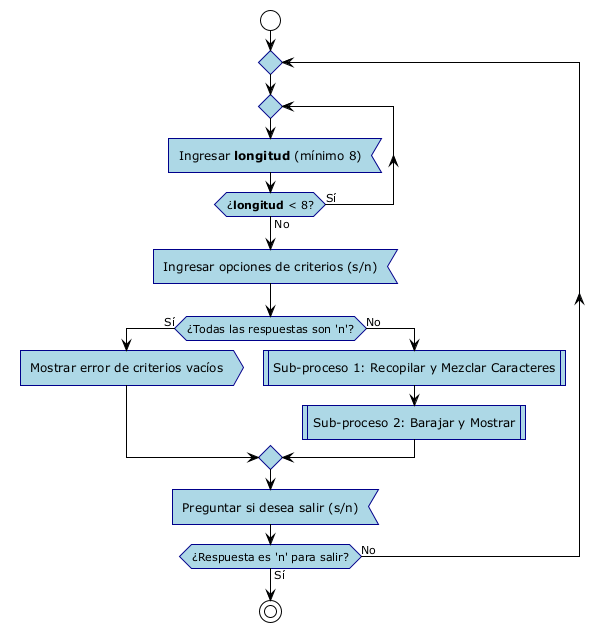
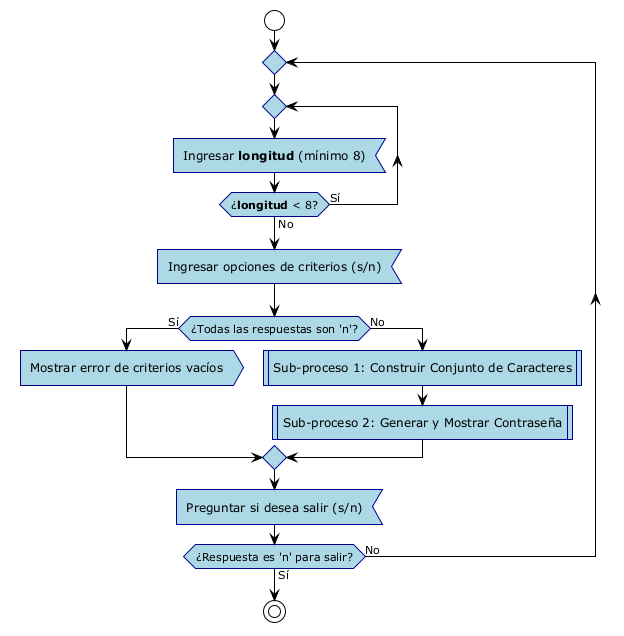
refactor: finalize v1 prototype logic and align flowcharts accordingly

Changed region(s): [[0.0312, 0.0, 0.9688, 0.9858]]

diff --git a/generador_password_v1.py b/generador_password_v1.py
@@ -1,0 +1,98 @@
+import string
+import random
+
+while True:
+    print("\n" + "=" * 45)
+    print("        GENERADOR DE CONTRASEÑAS V1")
+    print("=" * 45)
+
+    # 1. Validación estricta de longitud
+    while True:
+        try:
+            longitud_str = input("Ingresa la longitud deseada (mínimo 8): ")
+            longitud = int(longitud_str)
+            if longitud >= 8:
+                break
+            else:
+                print(
+                    "[!] Advertencia: Por favor, ingresa un número igual o mayor a 8 para mayor seguridad."
+                )
+        except ValueError:
+            print(
+                "[!] Error: Entrada inválida. Debes ingresar únicamente un número entero."
+            )
+
+    # 2. Selección de criterios de complejidad
+    print("\nResponde con 's' (sí) o 'n' (no) a los siguientes criterios:")
+
+    while True:
+        respuesta_mayus = input("- ¿Incluir letras mayúsculas? (s/n): ").strip().lower()
+        if respuesta_mayus in ["s", "n"]:
+            break
+        print("    -> Opción no válida. Usa 's' o 'n'.")
+
+    while True:
+        respuesta_minus = input("- ¿Incluir letras minúsculas? (s/n): ").strip().lower()
+        if respuesta_minus in ["s", "n"]:
+            break
+        print("    -> Opción no válida. Usa 's' o 'n'.")
+
+    while True:
+        respuesta_num = input("- ¿Incluir números? (s/n): ").strip().lower()
+        if respuesta_num in ["s", "n"]:
+            break
+        print("    -> Opción no válida. Usa 's' o 'n'.")
+
+    while True:
+        respuesta_sim = (
+            input("- ¿Incluir caracteres especiales? (s/n): ").strip().lower()
+        )
+        if respuesta_sim in ["s", "n"]:
+            break
+        print("    -> Opción no válida. Usa 's' o 'n'.")
+
+    # 3. Validación de selección mínima
+    if (
+        respuesta_mayus == "n"
+        and respuesta_minus == "n"
+        and respuesta_num == "n"
+        and respuesta_sim == "n"
+    ):
+        print(
+            "\n[!] Error: No se puede generar una contraseña vacía. Debes seleccionar al menos un criterio."
+        )
+        continue
+
+    # 4. Construcción del conjunto total de caracteres permitidos
+    conjunto_total = ""
+
+    if respuesta_mayus == "s":
+        conjunto_total += string.ascii_uppercase
+    if respuesta_minus == "s":
+        conjunto_total += string.ascii_lowercase
+    if respuesta_num == "s":
+        conjunto_total += string.digits
+    if respuesta_sim == "s":
+        conjunto_total += string.punctuation
+
+    # 5. Generación de la contraseña seleccionando al azar del conjunto total
+    password_final = ""
+    for _ in range(longitud):
+        password_final += random.choice(conjunto_total)
+
+    # 6. Mostrar el resultado final
+    print("\n" + "-" * 45)
+    print("Contraseña generada con éxito:")
+    print(password_final)
+    print("-" * 45 + "\n")
+
+    # 7. Preguntar por una nueva generación
+    while True:
+        salir = input("¿Deseas generar otra contraseña nueva? (s/n): ").strip().lower()
+        if salir in ["s", "n"]:
+            break
+        print("Por favor responde 's' o 'n'.")
+
+    if salir == "n":
+        print("\n¡Gracias por utilizar el Generador de Contraseñas V1! Hasta pronto.")
+        break

diff --git a/README.md b/README.md
@@ -4,33 +4,33 @@ Un programa de consola en Python diseñado para generar contraseñas criptográf
 
 ## Características Principales
 
-*   **Seguridad Real:** Utiliza la librería nativa `secrets` (CSPRNG) en lugar de `random`, lo que garantiza impredecibilidad criptográfica.
-*   **Diversidad Garantizada:** Asegura matemáticamente la inclusión de al menos un carácter de cada tipo seleccionado (mayúsculas, minúsculas, números, símbolos).
-*   **Longitud Personalizable:** Permite al usuario elegir la longitud deseada, forzando un mínimo de 8 caracteres para evitar contraseñas débiles por fuerza bruta.
-*   **Validación de Errores:** Evita que el programa colapse si el usuario ingresa letras en lugar de números o selecciona opciones no válidas.
+- **Seguridad Real:** Utiliza la librería nativa `secrets` (CSPRNG) en lugar de `random`, lo que garantiza impredecibilidad criptográfica.
+- **Diversidad Garantizada:** Asegura matemáticamente la inclusión de al menos un carácter de cada tipo seleccionado (mayúsculas, minúsculas, números, símbolos).
+- **Longitud Personalizable:** Permite al usuario elegir la longitud deseada, forzando un mínimo de 8 caracteres para evitar contraseñas débiles por fuerza bruta.
+- **Validación de Errores:** Evita que el programa colapse si el usuario ingresa letras en lugar de números o selecciona opciones no válidas.
 
 ## Requisitos
 
-*   Python 3.6 o superior.
-*   No requiere instalación de librerías externas (solo usa `string` y `secrets` nativas).
+- Python 3.6 o superior.
+- No requiere instalación de librerías externas (solo usa `string` y `secrets` nativas).
 
 ## Cómo Usarlo
 
-1.  Abre tu terminal o consola de comandos.
-2.  Clona o descarga este repositorio en tu máquina local.
-3.  Navega hasta la carpeta del proyecto.
-4.  Ejecuta el archivo principal:
+1. Abre tu terminal o consola de comandos.
+2. Clona o descarga este repositorio en tu máquina local.
+3. Navega hasta la carpeta del proyecto.
+4. Ejecuta el archivo principal:
 
 ```bash
 python generador_basico.py
 ```
 
-5.  Sigue las instrucciones en pantalla para definir la longitud y los criterios de tu contraseña.
+1. Sigue las instrucciones en pantalla para definir la longitud y los criterios de tu contraseña.
 
 ## Estructura Lógica y Diagramas de Flujo
 
 El algoritmo está modelado utilizando la notación estándar ISO/SDL en PlantUML. Para facilitar su lectura, se dividió en tres partes:
 
-1.  **`diagrama-principal.png`**: Muestra el bucle principal de ejecución y la validación de la longitud. Llama internamente a los dos sub-procesos siguientes.
-2.  **`diagrama-sub1.png`**: Detalla el "Sub-proceso 1", donde se validan los 4 criterios lógicos (mayúsculas, minúsculas, números y símbolos) y se rellena la contraseña garantizando la diversidad.
-3.  **`diagrama-sub2.png`**: Detalla el "Sub-proceso 2", que se encarga de barajar aleatoriamente los caracteres generados y mostrarlos en pantalla.
+1. **`diagrama-principal.png`**: Muestra el bucle principal de ejecución y la validación de la longitud. Llama internamente a los dos sub-procesos siguientes.
+2. **`diagrama-sub1.png`**: Detalla el "Sub-proceso 1", donde se validan los 4 criterios lógicos (mayúsculas, minúsculas, números y símbolos) y se rellena la contraseña garantizando la diversidad.
+3. **`diagrama-sub2.png`**: Detalla el "Sub-proceso 2", que se encarga de barajar aleatoriamente los caracteres generados y mostrarlos en pantalla.